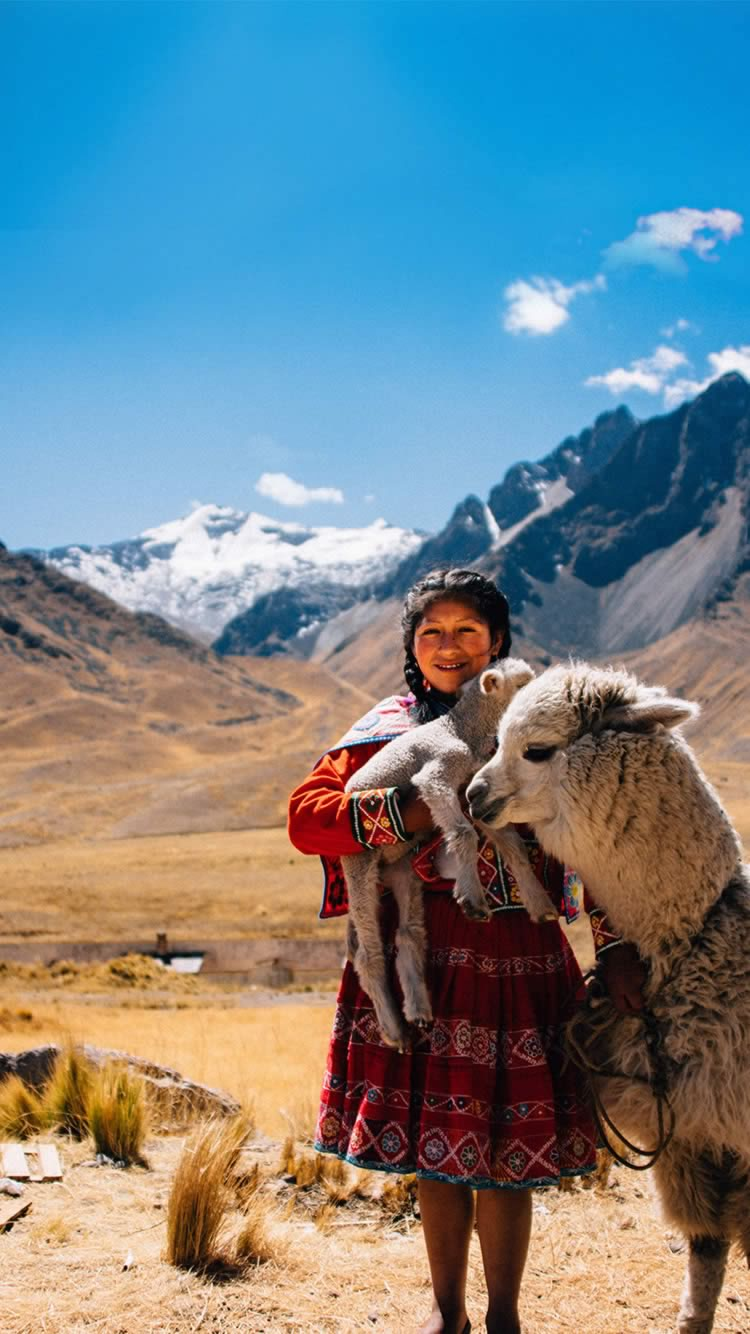
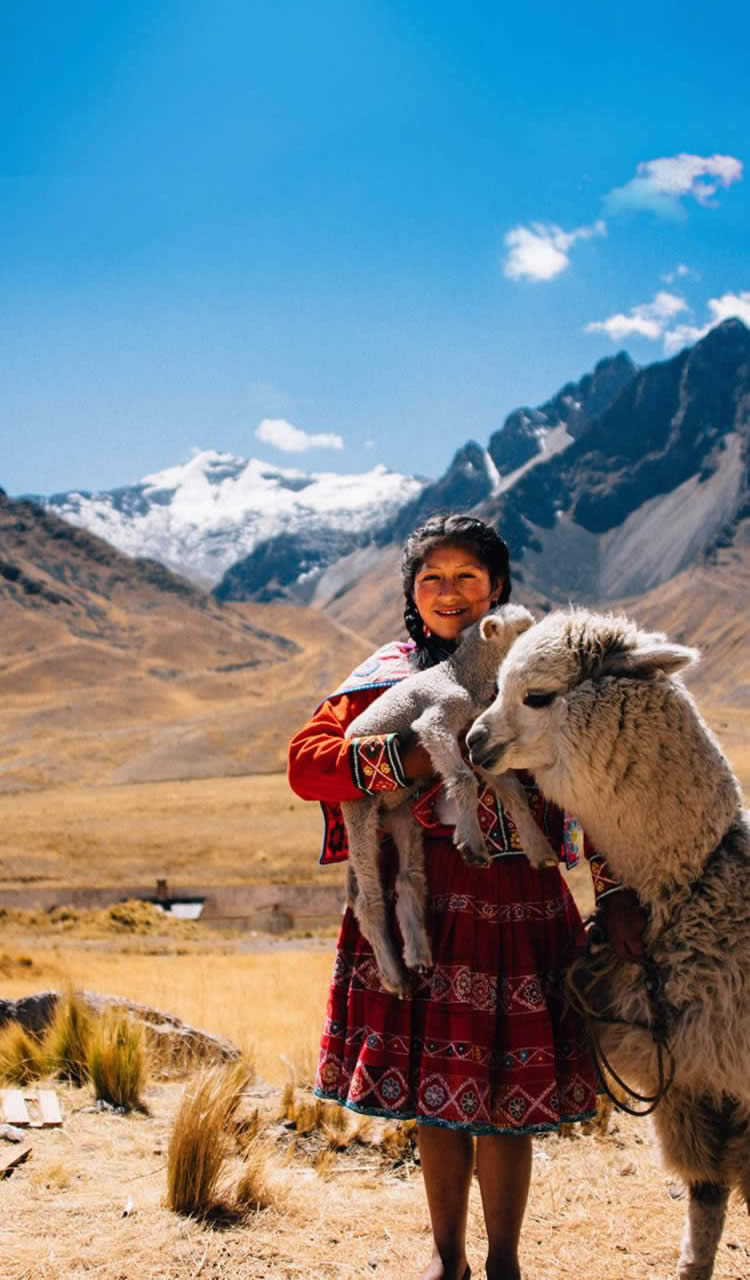
test v2
test v2

diff --git a/index.html b/index.html
@@ -58,7 +58,7 @@
         .ft-actionsheet button:not(:last-child) { border: 0; background-position: left top; background-image: -webkit-gradient(linear, left bottom, left top, color-stop(0.5, transparent), color-stop(0.5, #ccc), to(#ccc)); background-repeat: repeat-x; -webkit-background-size: 100% 1px; }
     }
     /* content */
-    .dpl-body{ width: 100%; background: url(south_america/img/bg.jpg) no-repeat; background-size: 100% auto; background-attachment: fixed;}
+    .dpl-body{ width: 100%; background: url(south_america/img/bg.jpg) center bottom no-repeat; background-size: cover; background-attachment: fixed;}
     .dpl-body:before {  content: ' ';  position: fixed;  z-index: -1;  top: 0;  right: 0;  bottom: 0;  left: 0;  background: url(south_america/img/bg.jpg) center 0 no-repeat;  background-size: cover;}
     .dpl-wrapper{ position: relative; }
     .dpl-container{ width: 100%; }
@@ -67,7 +67,7 @@
     .dpl-banner .dpl-logo{text-align: right; padding-right: .3rem; padding-top: .3rem;}
     .dpl-banner .dpl-logo .logo{ display: inline-block; width: 1.2rem; height: 1.29rem; background: url(south_america/img/logo.png); background-size: cover; }
     .dpl-banner .dpl-topic{text-align: center;}
-    .dpl-btm{ padding-top: 2.5rem; }
+    .dpl-btm{ padding-top: 2rem; }
     .dpl-title{text-align: center; padding:.6rem 0;}
     .dpl-title img{ width: 100%; }
     .dpl-concept{ position: relative; background-color: #fff; }
@@ -146,7 +146,7 @@
 <body class="dpl-body">
     <div class="dpl-wrapper">
         <!-- 底部固定浮动 -->
-        <div id="order_box" class="dpl-ft-bar dpl-ft-btn dpl-ft-cell2" style="margin-bottom: 14px;">
+        <div id="order_box" class="dpl-ft-bar dpl-ft-btn dpl-ft-cell2" style="">
             <a href="javascript:;" class="btn-share lc-share"><i class="iconshare"></i>分享</a>
             <a href="javascript:;" class="dpl-btn-submit lc-order">咨询旅行顾问</a>
         </div>
